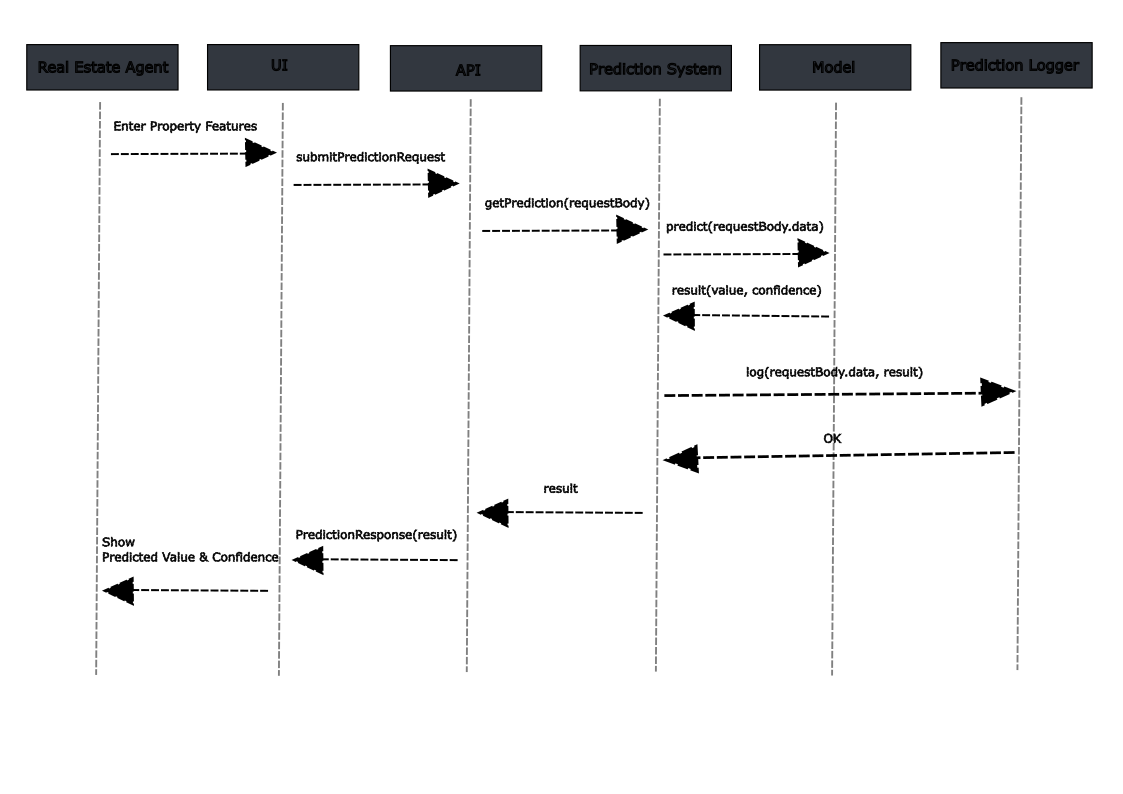
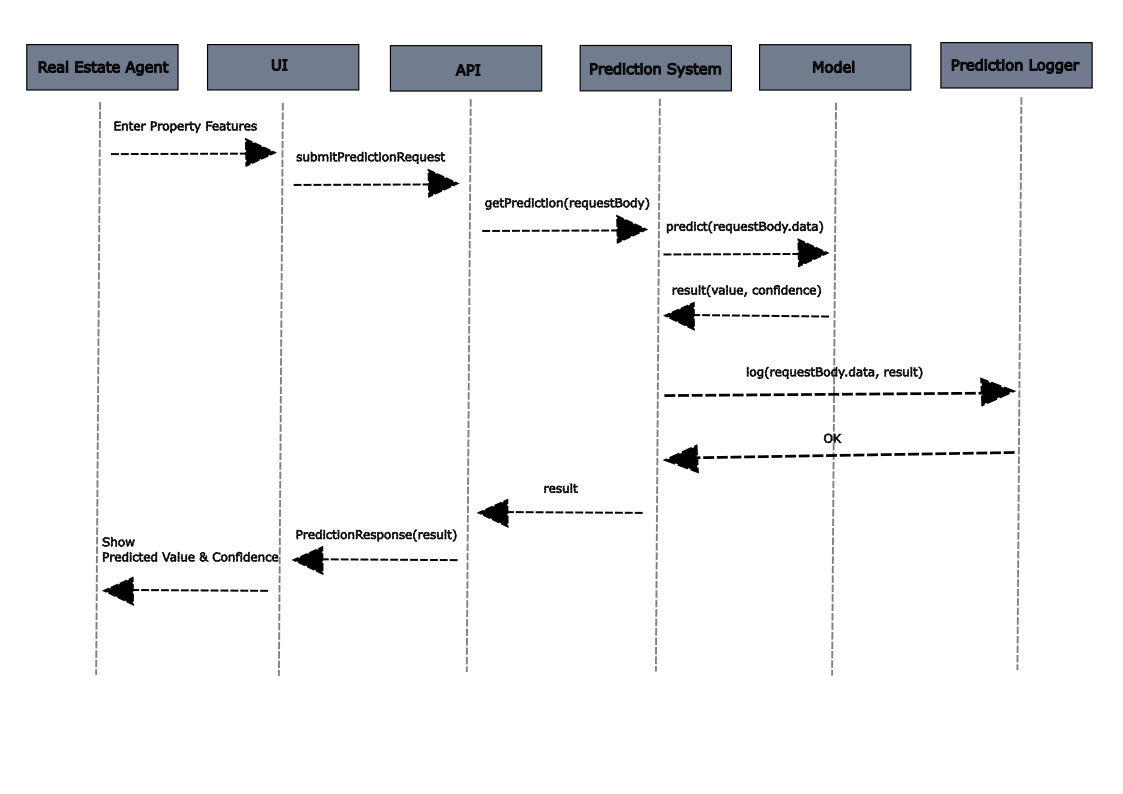
UML readability improved by using a white background

Changed region(s): [[0.0, 0.0302, 0.9973, 0.1209]]

diff --git a/README.md b/README.md
@@ -16,7 +16,7 @@ that can outperform the current manual methods.
 The Software Requirement Specification (SRS) document can be viewed [here](/docs/srs/Software%20Requirements%20Specification.pdf)
 
 # System Modeling
-* ## UML Use Case Diagram
+* **UML Use Case Diagram**
     ![UML use case diagram](/docs/uml/usercase.png)
-* ## UML Sequence Diagram
+* **UML Sequence Diagram**
     ![UML sequence diagram](/docs/uml/sequence.png)
